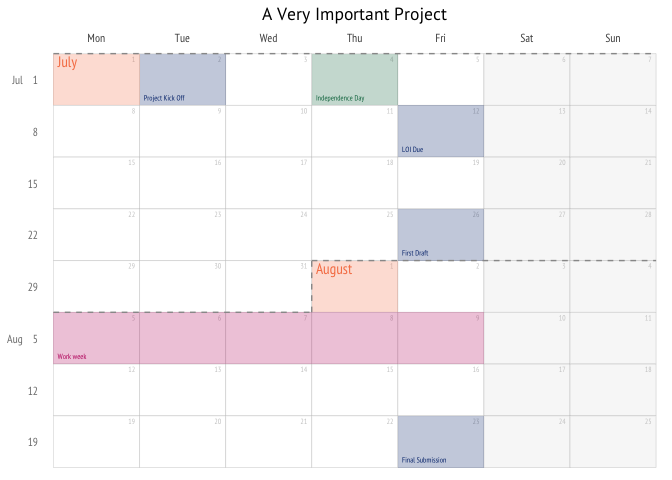
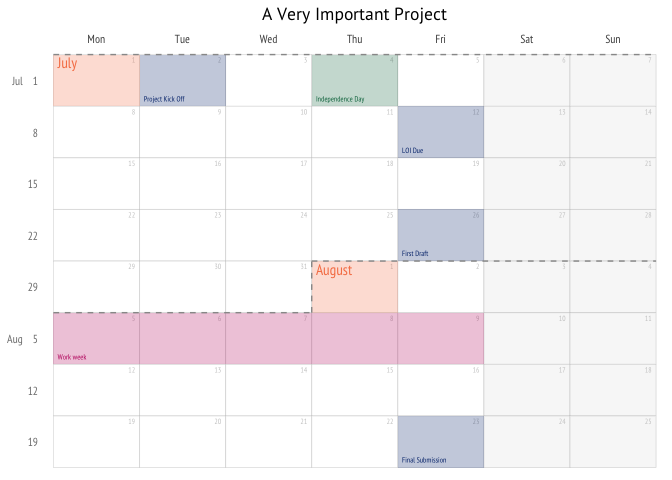
fix fonts throughout

diff --git a/README.md b/README.md
@@ -95,10 +95,6 @@ end_date <- lubridate::ceiling_date(lubridate::ymd("2019-12-31"), "week", week_s
   lubridate::days(1)
 week_dates <- seq(start_date, end_date, by = "56 day")
 
-showtext::showtext_auto()
-sysfonts::font_add_google("PT Sans")
-sysfonts::font_add_google("PT Sans Narrow")
-
 pdf(here::here("printable", "2019-weekly-planner.pdf"), width = 8.5, height = 11)
 for (idx_week in seq_along(week_dates)) {
   gcal <- ggweek_planner(start_day = week_dates[idx_week]) +
